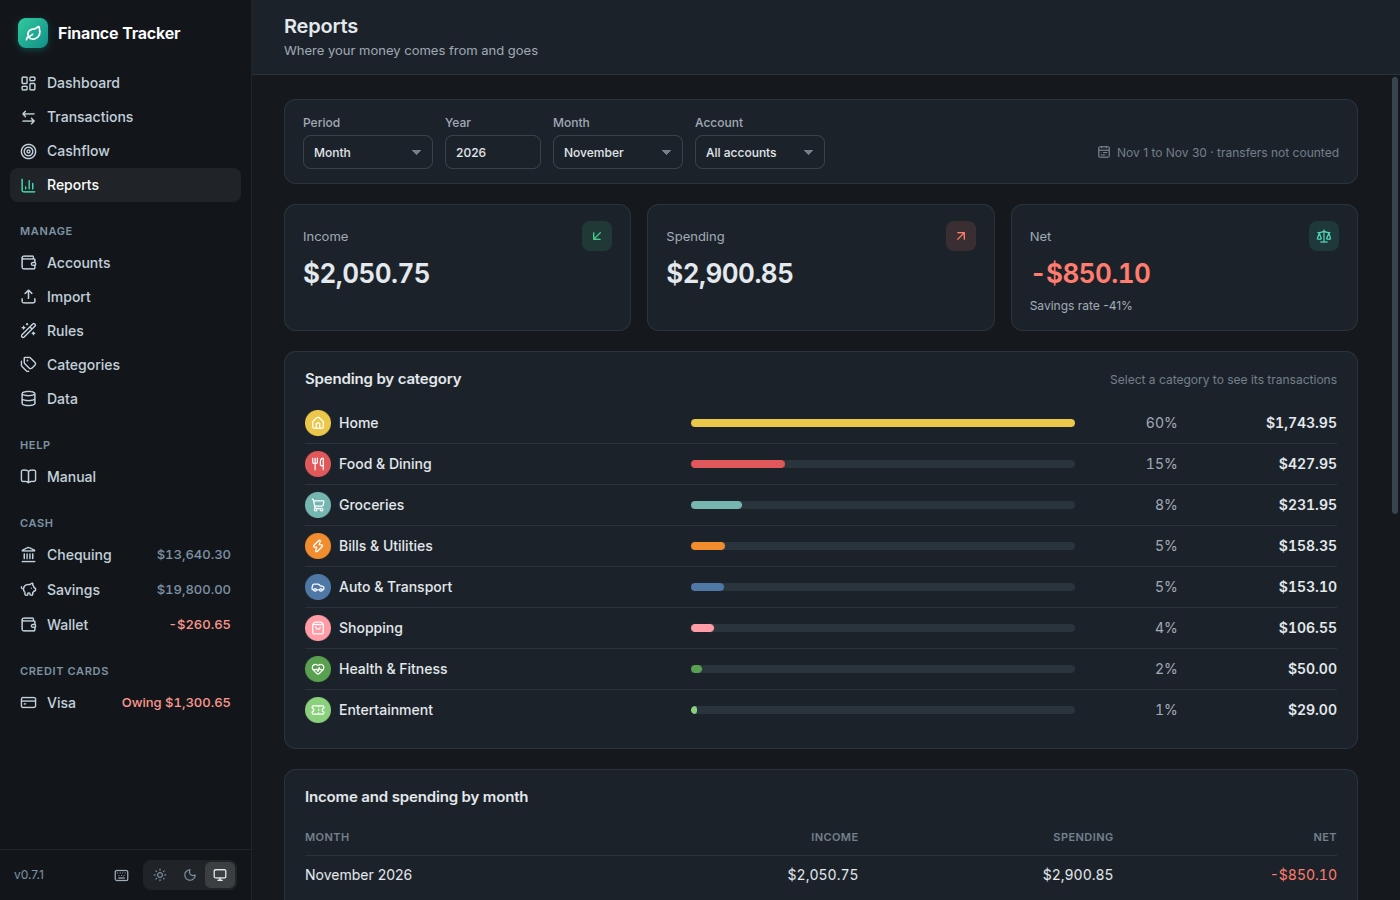
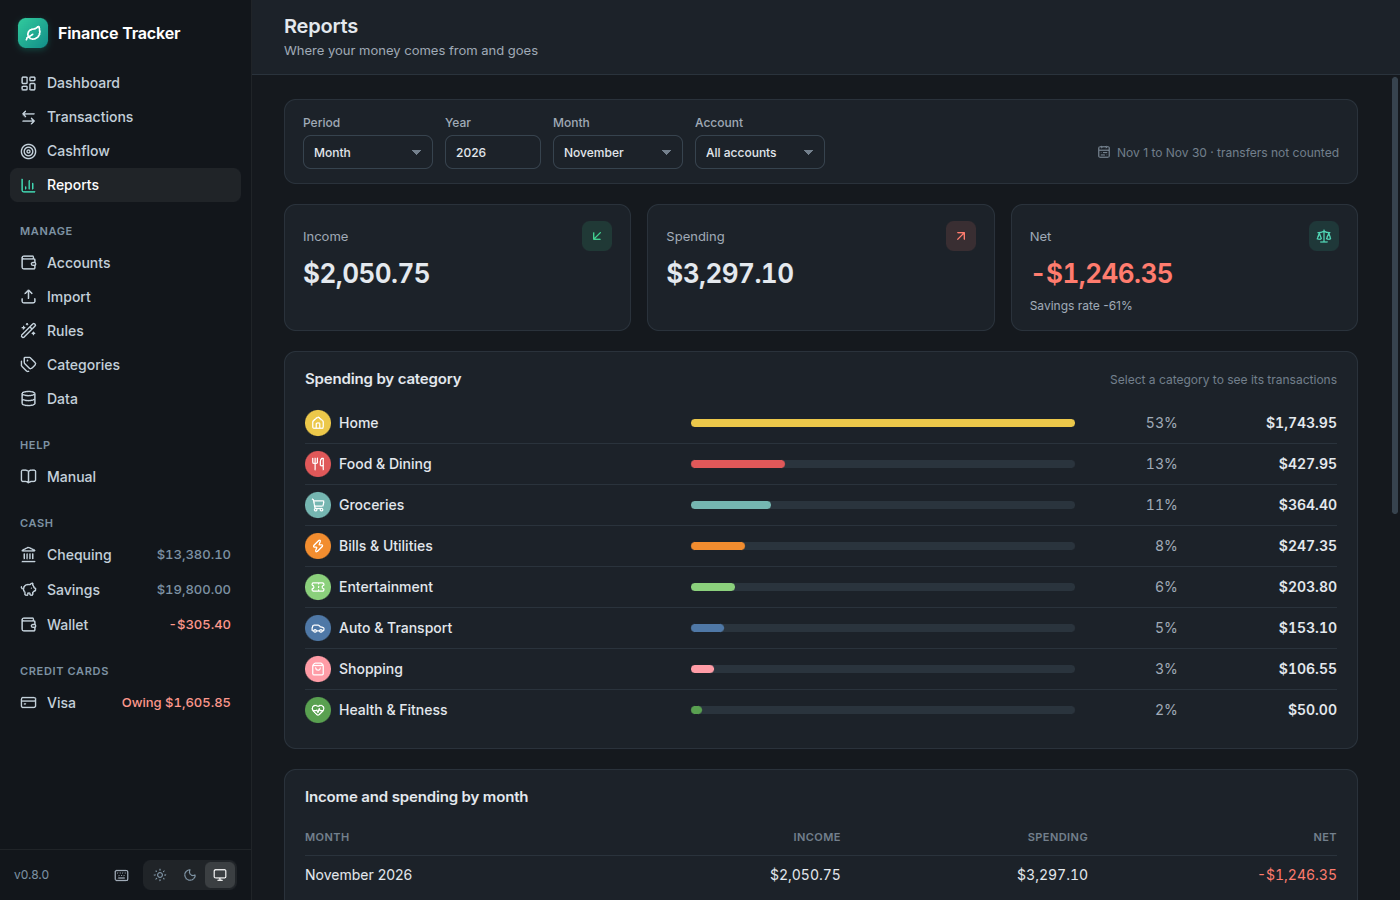
chore: release 0.8.0, regenerate README screenshots, handoff
Claude-Session: https://claude.ai/code/session_015k7HiBHaWsp4GicyWnbHGh

diff --git a/CLAUDE.md b/CLAUDE.md
@@ -16,12 +16,12 @@ See `docs/design/00_project_brief.md`.
 
 ## Project status
 
-Milestones 1 (skeleton) and 2 (ledger: schema, core queries, IPC, transaction list, transfers, splits) are built. Milestone 3 (import) is built: CSV, OFX/QFX and Mint CSV, mapping profiles, duplicate detection, undo, history, and bank presets for RBC, TD and Tangerine, verified against real export headers and date formats (see `docs/design/04_import.md`). Milestone 4 (rules) is built in core, IPC and a basic editor (see `docs/design/05_rules.md`). Milestone 5 (search) is built: filters, saved searches and bulk actions (see `docs/design/06_search.md`). Milestone 6 (reports and dashboard) is built: category, income vs expenses, trend, payee and biggest-transaction reports, a dashboard home screen and category drill-down (see `docs/design/07_reports.md`). Milestone 7 (data safety) is built: database export and restore, transactions CSV export and automatic backups (see `docs/design/08_data_safety.md`). OFX/QFX and Mint import were clicked through headless (`import-formats.mjs`). Milestone 8 (packaging) is built: unsigned installers via electron-builder and a tag-triggered release workflow (see `docs/design/09_packaging.md`, ADR 0004). v0.1.0 is released (Linux AppImage, Windows exe, macOS arm64 dmg on the GitHub release page). After the MVP review: a Categories tab (add, rename, delete with reassign), a customizable dashboard, and account edit, archive and delete from the sidebar. After the design review (`docs/design/11_review_feedback.md`): duplicate hardening, flat categories with merge, category colours and icons, and per-category search totals are built. Also built: a rule prompt when a category is changed in the list, the watched import folder, default linking of card payments at import, category aliases (migration 10) and the hide-from-budgets flag (migration 11). budgets v1 (monthly standing amount per category, see `docs/design/12_budgets.md`, migration 12) with a dashboard widget. Look and feel (`docs/design/13_look_and_feel.md`, ADR 0005) is built: design tokens, light and dark themes, sidebar shell, dialogs and a layout pass on every screen; no `window.alert`/`window.confirm` remain. An in-app Manual (`docs/design/14_manual.md`) is built; keep `manualContent.ts` in step with user-visible changes. Spreadsheet (.xlsx) import is built (ADR 0006). After the feedback batch (handoff 2026-11-14_feedback-batch): category kind dropped (ADR 0007), card payment linking, searchable category picker, notes, rule toast, import column guessing with preview, and Find duplicates. After the second feedback round (handoff 2026-11-14_session-accounts-and-duplicates): bulk duplicate cleanup with cross-account matching, an Accounts tab (design note 15), a navigation-only sidebar and an Account filter on Transactions. After the third feedback round (handoff 2026-11-14_session-feedback-round-3): dashboard drill-downs, import category guess and skip-on-import rules. After the follow-up (handoff 2026-11-14_session-review-queue-fuzzy-rules): import rule offer, fuzzy `similar` rule operator and a review queue for uncategorized rows. After persona testing (handoff 2026-11-14_session-usability-pass): decimal-comma fix, layout and narrow-window fixes, first-run guidance, explicit import account, predictable search, keyboard shortcuts, skip-aware import summary, similar-spelling history guess, and design notes 16 and 17. v0.5.0 is released (handoff 2026-11-14_session-release-0.5.0). After the fourth feedback round (handoff 2026-11-14_session-feedback-round-4): load all transactions, edit transaction, hidden-from-budgets leaves reports, net refunds and sorting on budgets, a spending donut, and Budgets renamed Cashflow. v0.6.0 is released. v0.7.0 adds set balance on a date and a Back button. v0.7.1 restores the account list to the sidebar. Next: build those two notes' first slices, then budget rollover (needs a decision, see design note 12).
+Milestones 1 (skeleton) and 2 (ledger: schema, core queries, IPC, transaction list, transfers, splits) are built. Milestone 3 (import) is built: CSV, OFX/QFX and Mint CSV, mapping profiles, duplicate detection, undo, history, and bank presets for RBC, TD and Tangerine, verified against real export headers and date formats (see `docs/design/04_import.md`). Milestone 4 (rules) is built in core, IPC and a basic editor (see `docs/design/05_rules.md`). Milestone 5 (search) is built: filters, saved searches and bulk actions (see `docs/design/06_search.md`). Milestone 6 (reports and dashboard) is built: category, income vs expenses, trend, payee and biggest-transaction reports, a dashboard home screen and category drill-down (see `docs/design/07_reports.md`). Milestone 7 (data safety) is built: database export and restore, transactions CSV export and automatic backups (see `docs/design/08_data_safety.md`). OFX/QFX and Mint import were clicked through headless (`import-formats.mjs`). Milestone 8 (packaging) is built: unsigned installers via electron-builder and a tag-triggered release workflow (see `docs/design/09_packaging.md`, ADR 0004). v0.1.0 is released (Linux AppImage, Windows exe, macOS arm64 dmg on the GitHub release page). After the MVP review: a Categories tab (add, rename, delete with reassign), a customizable dashboard, and account edit, archive and delete from the sidebar. After the design review (`docs/design/11_review_feedback.md`): duplicate hardening, flat categories with merge, category colours and icons, and per-category search totals are built. Also built: a rule prompt when a category is changed in the list, the watched import folder, default linking of card payments at import, category aliases (migration 10) and the hide-from-budgets flag (migration 11). budgets v1 (monthly standing amount per category, see `docs/design/12_budgets.md`, migration 12) with a dashboard widget. Look and feel (`docs/design/13_look_and_feel.md`, ADR 0005) is built: design tokens, light and dark themes, sidebar shell, dialogs and a layout pass on every screen; no `window.alert`/`window.confirm` remain. An in-app Manual (`docs/design/14_manual.md`) is built; keep `manualContent.ts` in step with user-visible changes. Spreadsheet (.xlsx) import is built (ADR 0006). After the feedback batch (handoff 2026-11-14_feedback-batch): category kind dropped (ADR 0007), card payment linking, searchable category picker, notes, rule toast, import column guessing with preview, and Find duplicates. After the second feedback round (handoff 2026-11-14_session-accounts-and-duplicates): bulk duplicate cleanup with cross-account matching, an Accounts tab (design note 15), a navigation-only sidebar and an Account filter on Transactions. After the third feedback round (handoff 2026-11-14_session-feedback-round-3): dashboard drill-downs, import category guess and skip-on-import rules. After the follow-up (handoff 2026-11-14_session-review-queue-fuzzy-rules): import rule offer, fuzzy `similar` rule operator and a review queue for uncategorized rows. After persona testing (handoff 2026-11-14_session-usability-pass): decimal-comma fix, layout and narrow-window fixes, first-run guidance, explicit import account, predictable search, keyboard shortcuts, skip-aware import summary, similar-spelling history guess, and design notes 16 and 17. v0.5.0 is released (handoff 2026-11-14_session-release-0.5.0). After the fourth feedback round (handoff 2026-11-14_session-feedback-round-4): load all transactions, edit transaction, hidden-from-budgets leaves reports, net refunds and sorting on budgets, a spending donut, and Budgets renamed Cashflow. v0.6.0 is released. v0.7.0 adds set balance on a date and a Back button. v0.7.1 restores the account list to the sidebar. v0.8.0 removes budget targets (migration 15; design note 12 kept as history) and reworks Cashflow: signed categories, category search, drill-down from every row and a month that survives Back (handoff 2026-11-20_session-release-0.8.0). Next: build the first slices of design notes 16 and 17.
 
 ## Scope
 
 In: manual transaction entry, accounts, categories, rules-based auto-categorization,
-search and filters, monthly reports, budgets (post-MVP). Out for now: bank
+search and filters, monthly reports and cashflow. Out for now: budget targets (removed in 0.8.0), bank
 syncing, multi-user, mobile apps, investment tracking. Do not expand scope
 without a design note in `docs/design/` or an ADR.
 

diff --git a/.claude/skills/run-finance-tracker/SKILL.md b/.claude/skills/run-finance-tracker/SKILL.md
@@ -23,7 +23,7 @@ xvfb-run -a -s "-screen 0 1440x900x24" node .claude/skills/run-finance-tracker/t
 ```
 
 `tour.mjs` covers search, rules and CSV import; `import-formats.mjs` covers OFX, QFX (fitid duplicates) and Mint import from `test-data/import/`; `reports.mjs` covers the dashboard,
-reports and the drill-down; `categories.mjs` covers the Categories tab (add, merge, rename, delete with reassign); `accounts-dashboard.mjs` covers account edit, archive and delete and the dashboard Customize panel; `budgets.mjs` covers the Budgets tab (add and edit dialogs, month stepper, remove); `rules.mjs` covers the Rules tab (editor dialog, reorder, turn off, preview and apply, delete); `data.mjs` covers the Data tab (backups, export, CSV, staged restore); `accounts-page.mjs` covers the Accounts tab; `duplicates.mjs` covers Find duplicates (keep one, cross-account), the names-only sidebar and the all-accounts Transactions tab; `transactions.mjs` covers the Transactions dialogs, filters, bulk bar, row menu, split and the in-app confirms; `screens.mjs [outDir]` screenshots every screen in light and dark for look-and-feel review. The app opens on the Dashboard tab.
+reports and the drill-down; `categories.mjs` covers the Categories tab (add, merge, rename, delete with reassign); `accounts-dashboard.mjs` covers account edit, archive and delete and the dashboard Customize panel; `cashflow.mjs` covers the Cashflow tab (signed categories, search, drill-down, Back keeps the month); `rules.mjs` covers the Rules tab (editor dialog, reorder, turn off, preview and apply, delete); `data.mjs` covers the Data tab (backups, export, CSV, staged restore); `accounts-page.mjs` covers the Accounts tab; `duplicates.mjs` covers Find duplicates (keep one, cross-account), the names-only sidebar and the all-accounts Transactions tab; `transactions.mjs` covers the Transactions dialogs, filters, bulk bar, row menu, split and the in-app confirms; `screens.mjs [outDir]` screenshots every screen in light and dark for look-and-feel review. The app opens on the Dashboard tab.
 
 `lib.mjs` exports `launch()` returning `{ app, page, errors, shot, stubOpenDialog }`.
 Write new flows as small scripts that import it. Then read the PNGs.
@@ -36,7 +36,7 @@ Write new flows as small scripts that import it. Then read the PNGs.
   delete are in the Edit account dialog in the page header.
 - Row actions are in a "..." menu on every list screen: click the button labelled
   `Actions for ...` (for example `Actions for transaction 12`, `Actions for Groceries`,
-  `Actions for rule 2`, `Actions for import sample.csv`, `Actions for Home budget`),
+  `Actions for rule 2`, `Actions for import sample.csv`, `Actions for Groceries`),
   then `getByRole('menuitem', ...)`. Forms open as dialogs: scope with `page.getByRole('dialog')`.
 - Confirms and alerts are in-app Radix dialogs, not `window.confirm`:
   `page.getByTestId('confirm-dialog')` and click its button. No screen uses

diff --git a/docs/handoffs/2026-11-20_session-release-0.8.0.md b/docs/handoffs/2026-11-20_session-release-0.8.0.md
@@ -1,0 +1,45 @@
+# Session Handoff: 2026-11-20 (release 0.8.0)
+
+## Summary
+
+Acted on a batch of owner feedback comments on Cashflow and released 0.8.0. This file supersedes
+the release-0.7.0 handoff for next actions.
+
+## Completed
+
+- Removed budget targets: core module, IPC, dashboard Budgets section, Add budget dialog and the
+  merge-category budget handling. Migration 15 drops the `budgets` table (automatic backups still
+  hold old amounts). Design note 12 is kept as history with a header explaining the removal.
+- Cashflow (`src/core/cashflow/`, `Cashflow.tsx`): Income, Spending and Net tiles, the spending
+  donut, and one Categories list with signed amounts (spending negative, income and net refunds
+  positive), which fixes "negative amounts not showing".
+- Category search box on Cashflow; every row (formerly "Spending without a budget") opens that
+  category's transactions for the month.
+- The selected month now lives in `App.tsx`, so Back from a drill-down returns to it.
+- "Hide from budgets" UI labels now read "Hide from reports". The `exclude_from_budgets` column
+  and API names are unchanged.
+- Manual, changelog, README (screenshots regenerated, `cashflow.png`) and the run skill updated.
+  `budgets.mjs` became `cashflow.mjs`.
+- Clicked through headless: `cashflow.mjs` (signed rows, search, no-match, drill-down and Back
+  landing on the same past month, no Budgets on the dashboard or in Customize),
+  `balance-back.mjs`, `reports.mjs`, `accounts-dashboard.mjs`. No console errors.
+- Version 0.8.0 in PR #57.
+
+## Current state
+
+- Migrations: 15. A saved dashboard layout that mentions `budgets` is ignored safely.
+- The Cashflow total of income and spending is per category net, so a category with both income
+  and spending in a month nets out. Reports use line-level totals, so the figures can differ slightly.
+
+## Next actions
+
+1. Owner tries Cashflow on real data. Never read real data.
+2. Build the first slices of design notes 16 (payee cleanup) and 17 (recurring payments).
+3. Housekeeping from the 0.7.0 handoff: bump `actions/upload-artifact`, pin the runner image,
+   consider raising the slow test timeouts on the Intel macOS runner.
+4. Rename the `exclude_from_budgets` column and field to match the "hide from reports" wording if wanted.
+
+## Risks or decisions needed
+
+- Removing the budgets table is irreversible for the live database; only backups keep old amounts.
+- Carried-over limits from earlier handoffs still apply.

diff --git a/README.md b/README.md
@@ -45,9 +45,9 @@ All screenshots use a synthetic demo database. No real data is shown.
 | --- | --- |
 | ![Transactions list with search, filters and a split transaction](docs/images/transactions.png) | ![Reports: spending by category and income and spending by month](docs/images/reports.png) |
 | **Cashflow** | **Rules** |
-| ![Budgets with progress bars and an over-budget category](docs/images/budgets.png) | ![Rules listed in the order they are checked](docs/images/rules.png) |
+| ![Cashflow: income, spending and net with a spending donut and category list](docs/images/cashflow.png) | ![Rules listed in the order they are checked](docs/images/rules.png) |
 | **Import** | **Dark theme** |
-| ![Import wizard with a drop zone and watched folder](docs/images/import.png) | ![Budgets screen in the dark theme](docs/images/budgets-dark.png) |
+| ![Import wizard with a drop zone and watched folder](docs/images/import.png) | ![Cashflow screen in the dark theme](docs/images/cashflow-dark.png) |
 
 ## Install
 

diff --git a/CHANGELOG.md b/CHANGELOG.md
@@ -5,6 +5,7 @@ All notable changes to this project are documented here. The format is based on
 
 ## [Unreleased]
 
+## [0.8.0] - 2026-11-20
 ### Removed
 
 - Budget targets (monthly amounts per category), the Budgets dashboard section and the budgets table (migration 15).
